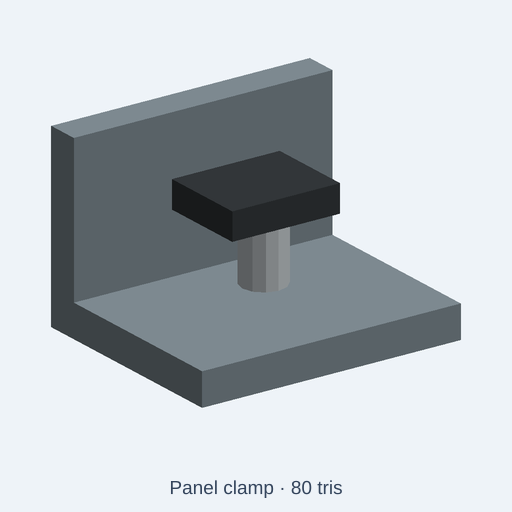
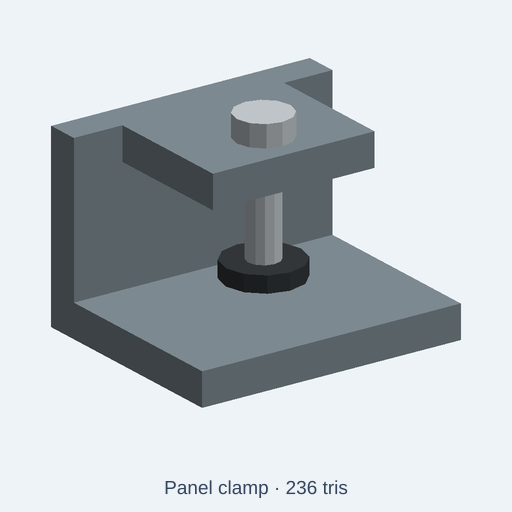
fix(catalog): support panel clamp screw with drilled C-frame (#1392)

Changed region(s): [[0.2188, 0.1562, 0.75, 0.5938], [0.3125, 0.9375, 0.6875, 0.9688]]

diff --git a/tests/integration/catalog/panelClampFidelity.test.ts b/tests/integration/catalog/panelClampFidelity.test.ts
@@ -1,0 +1,92 @@
+// SPDX-License-Identifier: MIT
+// Acceptance of a CC0 panel-clamp prop: a supported frame, through-bore,
+// pressure screw and pad. These checks do not confer machining/load ratings.
+import { beforeAll, describe, expect, it } from 'vitest';
+import { readFileSync } from 'node:fs';
+import { resolve } from 'node:path';
+import { NodeIO } from '@gltf-transform/core';
+import { initOcct } from '../../../src/kernel/backends/occt/occtBackend';
+import { buildCatalogAssetWithGlb } from '../../../src/agent/catalog/buildCatalog';
+import { runAndExport } from '../../../src/agent/script-runtime/export';
+
+type V = [number, number, number];
+type Tri = [V, V, V];
+const root = resolve(import.meta.dirname, '../../..');
+const assetPath = 'catalog/kits/standard-components/panel-clamp.kcad.ts';
+const source = readFileSync(resolve(root, assetPath), 'utf8');
+const sub = (a:V,b:V):V => [a[0]-b[0],a[1]-b[1],a[2]-b[2]];
+const cross = (a:V,b:V):V => [a[1]*b[2]-a[2]*b[1],a[2]*b[0]-a[0]*b[2],a[0]*b[1]-a[1]*b[0]];
+const dot = (a:V,b:V) => a[0]*b[0]+a[1]*b[1]+a[2]*b[2];
+function rayHit(tris:Tri[],p:V,d:V):boolean {
+  return tris.some(([a,b,c])=>{
+    const e1=sub(b,a),e2=sub(c,a),h=cross(d,e2),det=dot(e1,h);
+    if(Math.abs(det)<1e-9) return false;
+    const f=1/det,s=sub(p,a),u=f*dot(s,h),q=cross(s,e1),v=f*dot(d,q),t=f*dot(e2,q);
+    return u>=-1e-7 && v>=-1e-7 && u+v<=1+1e-7 && t>1e-6 && t<100;
+  });
+}
+async function readTriangles(bytes: Uint8Array):Promise<Map<string,Tri[]>> {
+  const doc=await new NodeIO().readBinary(bytes),out=new Map<string,Tri[]>();
+  for(const node of doc.getRoot().listNodes()) {
+    const mesh=node.getMesh();if(!mesh)continue;
+    const m=node.getWorldMatrix(),tris:Tri[]=[];
+    for(const primitive of mesh.listPrimitives()) {
+      const pos=primitive.getAttribute('POSITION')!,idx=primitive.getIndices(),count=idx?idx.getCount():pos.getCount();
+      for(let i=0;i<count;i+=3)tris.push([0,1,2].map(j=>{
+        const v=pos.getElement(idx?idx.getScalar(i+j):i+j,[]);
+        return [0,1,2].map(k=>1000*(m[k]!*v[0]!+m[k+4]!*v[1]!+m[k+8]!*v[2]!+m[k+12]!)) as V;
+      }) as Tri);
+    }
+    out.set(node.getName(),tris);
+  }
+  return out;
+}
+async function variant(code:string) {
+  const e=await runAndExport({code,fileName:'panel-clamp.kcad.ts',scriptDir:resolve(root,'catalog/kits/standard-components'),format:'glb',options:{format:'glb',style:'lowpoly',lowpoly:{maxTriangles:320}}});
+  expect(e.diagnostics.filter(d=>d.severity==='error')).toEqual([]);
+  return readTriangles(e.bytes);
+}
+function check(parts:Map<string,Tri[]>,s:number) {
+  expect([...parts.keys()].sort()).toEqual(['c-frame','pressure-screw','rubber-pad']);
+  const frame=parts.get('c-frame')!,screw=parts.get('pressure-screw')!,pad=parts.get('rubber-pad')!;
+  expect(frame.length).toBeGreaterThan(0);
+  expect(screw.length).toBeGreaterThan(0);
+  expect(pad.length).toBeGreaterThan(0);
+  // GLB Y = authored Z, GLB depth = minus authored Y.
+  const below:[number,number,number]=[0,7*s,2*s];
+  expect(rayHit(frame,below,[0,1,0]),'screw guide must be a through-bore, not a solid bridge').toBe(false);
+  expect(rayHit(frame,[8*s,7*s,2*s],[0,1,0]),'the overhead bridge must survive outside the guide bore').toBe(true);
+  expect(rayHit(screw,below,[0,1,0]),'separate pressure screw must traverse the bore').toBe(true);
+  expect(rayHit(pad,below,[0,1,0]),'rubber pad must be below the supported screw').toBe(true);
+}
+beforeAll(async()=>{await initOcct();},30000);
+describe('panel clamp mechanical identity',()=>{
+  it('exports three separate functional bodies, a bored bridge and a real open throat',async()=>{
+    const {asset,glb}=await buildCatalogAssetWithGlb(root,assetPath);
+    expect(asset.description).toMatch(/illustrative CC0 low-poly/i);
+    expect(asset.description).toMatch(/not load-rated.*manufacturing CAD/i);
+    expect(asset.stats.triangles).toBeLessThanOrEqual(asset.triangleBudget);
+    expect(asset.stats.sizeM.map(n=>Math.round(n*1000)).sort((a,b)=>a-b)).toEqual([40,48,37].sort((a,b)=>a-b));
+    check(await readTriangles(glb),1);
+  },30000);
+  it('rejects a guide without a drilled passage',async()=>{
+    const broken=source.replace('.subtract(screwBore)','');
+    expect(broken).not.toBe(source);
+    const frame=(await variant(broken)).get('c-frame')!;
+    expect(rayHit(frame,[0,7,2],[0,1,0])).toBe(true);
+  },30000);
+  it('rejects a floating screw without the overhead bridge',async()=>{
+    const broken=source.replace('.union(bridge)','');
+    expect(broken).not.toBe(source);
+    // Removing the bridge makes the drill a non-intersecting subtraction.
+    // The kernel must reject the disconnected clamp instead of exporting it.
+    const e=await runAndExport({code:broken,fileName:'panel-clamp.kcad.ts',scriptDir:resolve(root,'catalog/kits/standard-components'),format:'glb',options:{format:'glb',style:'lowpoly',lowpoly:{maxTriangles:320}}});
+    expect(e.diagnostics.map(d=>d.code)).toContain('feature.subtractive-noop');
+  },30000);
+  it('scales all critical contact features on compact and large variants',async()=>{
+    for(const [name,scale] of [['compact',.75],['large',1.25]] as const) {
+      const code=source.replace("param('size', 'standard'",`param('size', '${name}'`);
+      check(await variant(code),scale);
+    }
+  },60000);
+});

diff --git a/catalog/kits/standard-components/panel-clamp.kcad.ts b/catalog/kits/standard-components/panel-clamp.kcad.ts
@@ -1,9 +1,10 @@
-// Distinctive geometry: Small edge clamp with a broad base, upright jaw and adjustable pressure pad
+// CC0 scene prop, not a rated fixture. The pressure screw passes through a
+// drilled overhead bridge; its pad moves toward the fixed base to clamp stock.
 meta({
   name: 'panel-clamp',
   license: 'CC0-1.0',
   title: 'Panel clamp',
-  description: 'Small edge clamp with a broad base, upright jaw and adjustable pressure pad Knobs: model size, steel, zinc-plated steel, rubber.',
+  description: 'Illustrative CC0 low-poly panel clamp with a fixed base, overhead bridge, bored pressure-screw guide and a separate rubber pressure pad. Not load-rated, threaded or manufacturing CAD. Controls: model size and three material colors.',
   tags: ['panel clamp', 'edge clamp', 'mounting hardware', 'fixture'],
   kit: 'standard-components',
   category: 'attachment',
@@ -24,9 +25,19 @@ presets({
 
 const s = size.value === 'compact' ? 0.75 : size.value === 'large' ? 1.25 : 1;
 const block = (x: number, y: number, z: number, w: number, d: number, h: number) => box(w, d, h).translate(x, y, z);
+// A single supported C-frame: the back upright joins the base and bridge.
+const base = block(-24*s,-20*s,0,48*s,40*s,6*s);
+const upright = block(-24*s,14*s,6*s,48*s,6*s,27*s);
+const bridge = block(-15*s,-10*s,27*s,30*s,30*s,6*s);
+const screwBore = cylinder(8*s,3.4*s,16).translate(0,-2*s,26*s);
+const frame = base.union(upright).union(bridge).subtract(screwBore);
+// The screw is supported inside the bridge and carries the contact pad. The
+// bore is wider than the shaft, while the head rests above the bridge.
+const shaft = cylinder(22*s,2.9*s,16).translate(0,-2*s,13*s);
+const head = cylinder(4*s,5*s,16).translate(0,-2*s,33*s);
+const pressurePad = cylinder(3*s,7*s,16).translate(0,-2*s,10*s);
 const a = assembly('panel-clamp');
-a.part('base',block(-24*s,-20*s,0,48*s,40*s,6*s).color(steel));
-a.part('jaw',block(-24*s,14*s,6*s,48*s,6*s,27*s).color(steel));
-a.part('screw',cylinder(14*s,4*s,10).translate(0,-2*s,9*s).color(zinc));
-a.part('pad',block(-10*s,-8*s,20*s,20*s,16*s,5*s).color(rubber));
+a.part('c-frame',frame.color(steel));
+a.part('pressure-screw',shaft.union(head).color(zinc));
+a.part('rubber-pad',pressurePad.color(rubber));
 return a.model();
